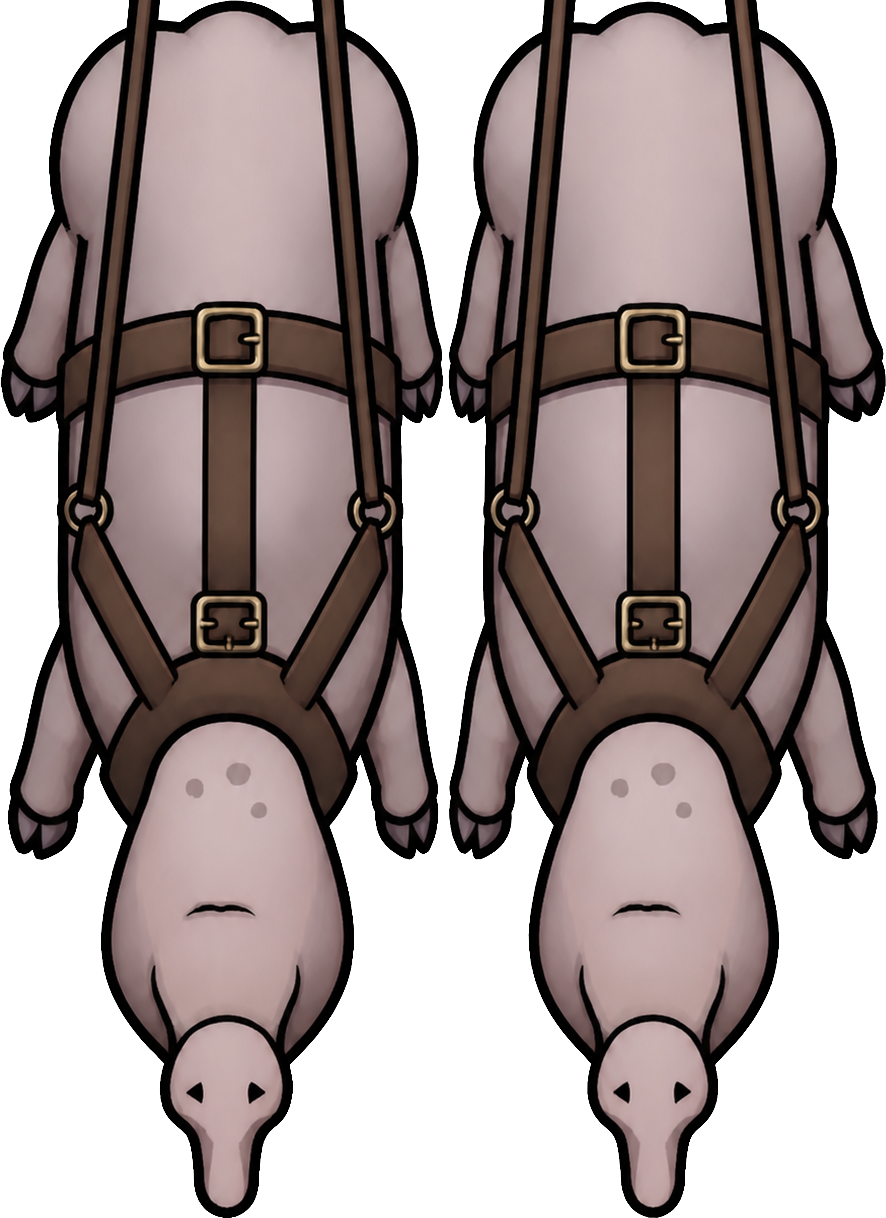
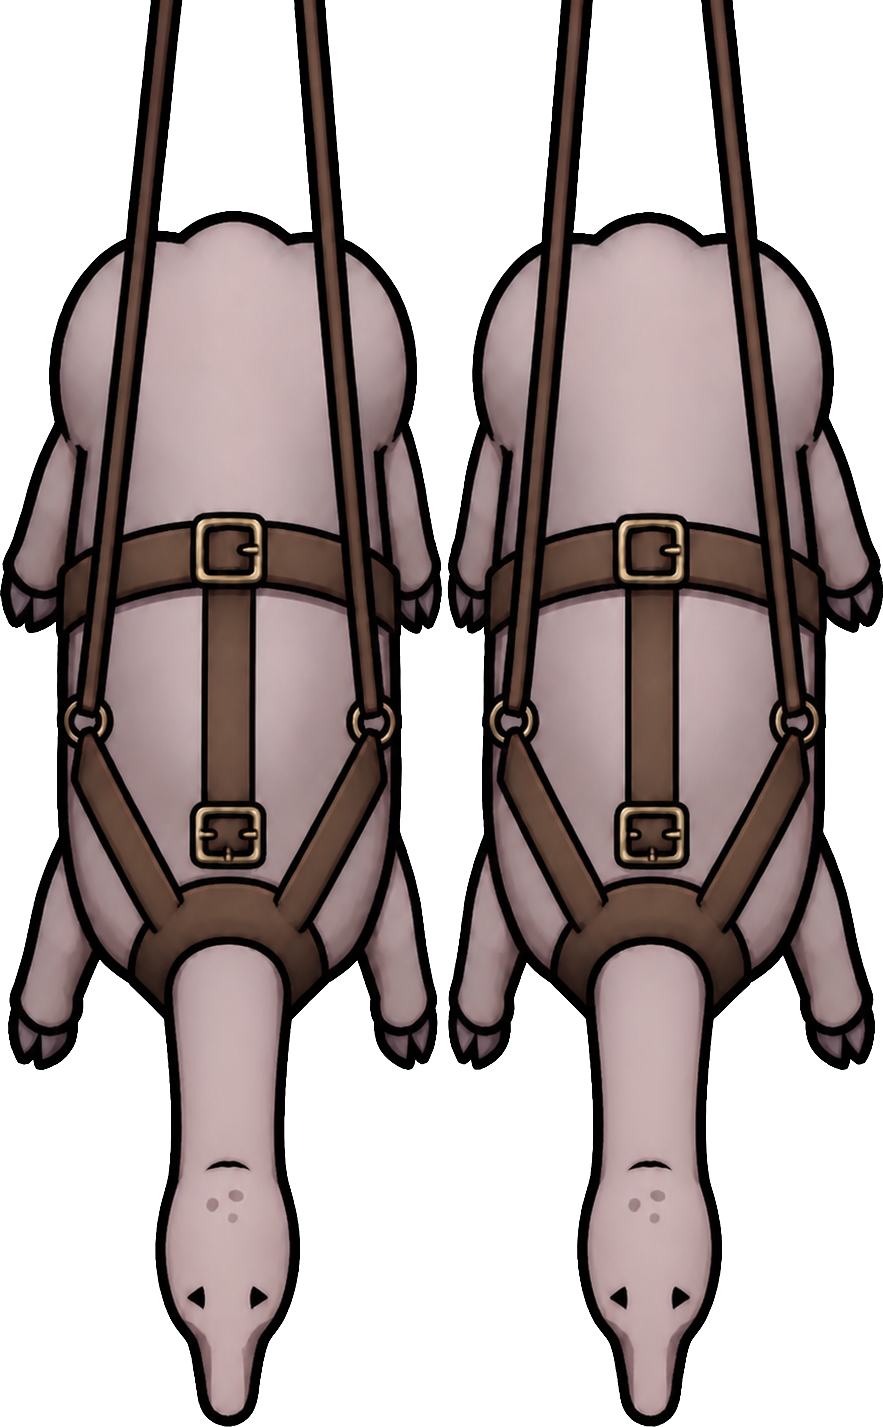
C3a fix 1: south's neck taken from east, as the owner asked
The body-wide mass between collar and head is gone; the neck now leaves the
shoulders at roughly half the ribcage width and tapers, matching the east
profile. Footprint bbox unchanged at (199,11,315,468). STUB_FRACS remeasured —
the longer neck moved them, and carrying the old numbers would have hung the
traces off the wrong shoulder. Review sheet is a script now, and draws both
sides TINTED as the game renders them.

diff --git a/src/Jawa/DesertVehicleReskin/Source/review_sheet.py b/src/Jawa/DesertVehicleReskin/Source/review_sheet.py
@@ -1,0 +1,102 @@
+#!/usr/bin/env python3
+"""Regenerate the owner's review sheet for all three sled facings.
+
+WHY IT IS A SCRIPT NOW. The first `REVIEW_all_three.png` was assembled by hand,
+so re-reviewing after a fix meant rebuilding the layout from memory and the two
+sheets did not line up. The owner reviews the same layout twice or the
+comparison is worth nothing.
+
+WHAT IT SHOWS, and it differs from the first sheet deliberately:
+
+    LEFT of each pair   the DONOR's sled and its four dogs
+    RIGHT of each pair  ours: the eopie team
+
+**Both sides are drawn TINTED, the way RimWorld actually renders them** — the
+donor under its own grey (71,71,71) and ours under the harness leather
+(99,65,24) that `Patches/DogSledTint_Brown.xml` sets. The first sheet showed raw
+PNGs, which is why the sled looked white in review and grey in game. A review
+image that is not the rendered image is a trap.
+
+The bottom strip is the same content at true in-game size, because 512 px of
+sled is never the decision.
+
+Run:  /home/mandrake/.venvs/art/bin/python Source/review_sheet.py
+      (Pillow is not on the system python here; that venv has it.)
+"""
+
+import os
+
+from PIL import Image, ImageDraw
+
+HERE = os.path.dirname(os.path.abspath(__file__))
+MOD = os.path.dirname(HERE)
+OURS = os.path.join(MOD, "Textures/Things/Vehicles/Land/Tier0/DogSled")
+DONOR = ("/mnt/c/Program Files (x86)/Steam/steamapps/workshop/content/294100/"
+         "3028675048/Textures/Things/Vehicles/Land/Tier0/DogSled")
+OUT = os.path.join(HERE, "REVIEW_all_three.png")
+
+FACINGS = ("north", "south", "east")
+DONOR_GREY = (71, 71, 71)        # DogSled_VehiclePawn.xml L12, the donor default
+OURS_BROWN = (99, 65, 24)        # LEATHER_MID, what our patch sets
+TRUE_SCALE = 4                   # 512 -> 128, the strip the owner judges by
+
+
+def tinted(folder: str, facing: str, colour: tuple) -> Image.Image:
+    """Multiply the art by `colour` under the mask's RED region only.
+
+    Red tints with the vehicle colour, black keeps the art's own colours. That
+    is the whole reason the animals stay eopie-pink while the sled moves.
+    """
+    art = Image.open(os.path.join(folder, f"AV_DogSled_{facing}.png")).convert("RGBA")
+    mask = Image.open(os.path.join(folder, f"AV_DogSled_{facing}m.png")).convert("RGBA")
+    out = Image.new("RGBA", art.size, (0, 0, 0, 0))
+    ap, mp, op = art.load(), mask.load(), out.load()
+    fr, fg, fb = (c / 255.0 for c in colour)
+    for y in range(art.height):
+        for x in range(art.width):
+            r, g, b, a = ap[x, y]
+            if a == 0:
+                continue
+            mr, mg, mb, _ = mp[x, y]
+            if mr > 128 and mg < 128 and mb < 128:
+                op[x, y] = (int(r * fr), int(g * fg), int(b * fb), a)
+            else:
+                op[x, y] = (r, g, b, a)
+    return out
+
+
+def main() -> None:
+    cell, pad, head = 512, 14, 34
+    panels = []
+    for facing in FACINGS:
+        panels.append((f"{facing} — donor, 4 dogs", tinted(DONOR, facing, DONOR_GREY)))
+        panels.append((f"{facing} — OURS, eopie pair", tinted(OURS, facing, OURS_BROWN)))
+
+    small = cell // TRUE_SCALE
+    cols = len(panels)
+    w = cols * cell + (cols + 1) * pad
+    h = head + cell + pad * 2 + head + small + pad
+    sheet = Image.new("RGBA", (w, h), (128, 128, 128, 255))
+    d = ImageDraw.Draw(sheet)
+    d.text((pad, 8),
+           "EOPIE DOG SLED — all three facings, drawn AS RENDERED (donor tinted "
+           "its grey 71,71,71; ours tinted harness leather 99,65,24). "
+           "LEFT of each pair = donor's 4 dogs, RIGHT = our eopie team.",
+           fill=(0, 0, 0, 255))
+
+    x = pad
+    for label, img in panels:
+        sheet.alpha_composite(img, (x, head + pad))
+        d.text((x, head + pad - 13), label, fill=(0, 0, 0, 255))
+        s = img.resize((small, small), Image.LANCZOS)
+        sheet.alpha_composite(s, (x, head + cell + pad * 2 + head))
+        x += cell + pad
+
+    d.text((pad, head + cell + pad * 2 + head - 15), "true in-game size:",
+           fill=(0, 0, 0, 255))
+    sheet.save(OUT)
+    print("wrote", OUT, sheet.size)
+
+
+if __name__ == "__main__":
+    main()

diff --git a/src/Jawa/DesertVehicleReskin/Source/build_eopie_sled_south.py b/src/Jawa/DesertVehicleReskin/Source/build_eopie_sled_south.py
@@ -110,7 +110,14 @@ TEAM_BOT = BAND_BOT                       # bottom-anchored: the animals lead
 
 # Trace stub centres in the generated pair, as a fraction of its width, so the
 # rigging follows the art if the pair is ever regenerated at another size.
-STUB_FRACS = (0.1625, 0.3696, 0.6321, 0.8352)
+# ⚠ MEASURED off the cut pair, not eyeballed — the four leather runs in its top
+# rows. The v1 pair measured (0.1614, 0.3708, 0.6304, 0.8363) against the
+# (0.1625, 0.3696, 0.6321, 0.8352) written here, so the method agrees with the
+# hand values to ~0.001. The v2 pair genuinely moved them: a longer neck makes a
+# taller crop, and the stub columns are a fraction of WIDTH but the animals
+# shifted within it. Carrying the old numbers over would have hung the traces
+# off the wrong part of the shoulder.
+STUB_FRACS = (0.1863, 0.3505, 0.6523, 0.8126)
 
 LEATHER_MID = (99, 65, 24)
 LEATHER_HI = (115, 93, 57)
@@ -158,6 +165,20 @@ def _traces(base, attach_y, stubs):
 
 
 def main():
+    # Optional overrides so a regenerated pair can be built to a scratch path
+    # and judged at sprite scale BEFORE it replaces the shipped texture.
+    #   build_eopie_sled_south.py [pair.png [out.png [f0,f1,f2,f3]]]
+    # Defaults are the shipped values, so a bare run is unchanged.
+    global PAIR, OUT, OUT_MASK, STUB_FRACS
+    argv = sys.argv[1:]
+    if len(argv) >= 1:
+        PAIR = os.path.abspath(argv[0])
+    if len(argv) >= 2:
+        OUT = os.path.abspath(argv[1])
+        OUT_MASK = OUT.replace(".png", "m.png")
+    if len(argv) >= 3:
+        STUB_FRACS = tuple(float(v) for v in argv[2].split(","))
+
     art = Image.open(SRC_ART).convert("RGBA")
     mask = Image.open(SRC_MASK).convert("RGBA")
     if art.size != (CANVAS, CANVAS):
